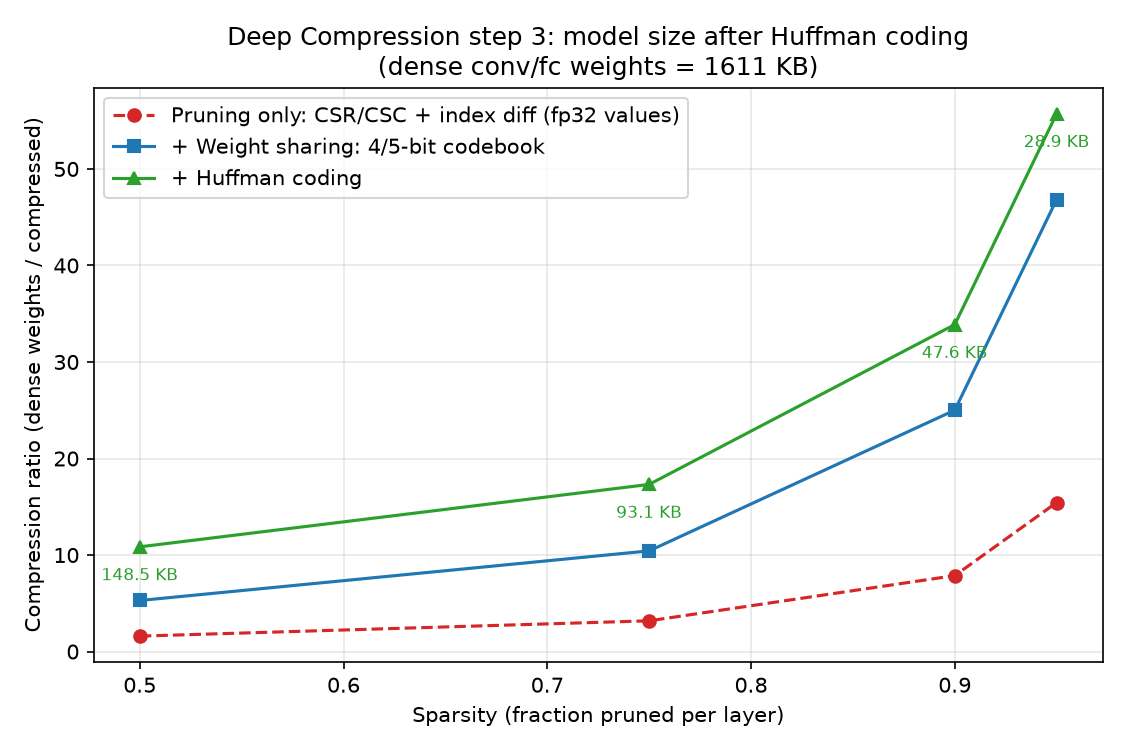
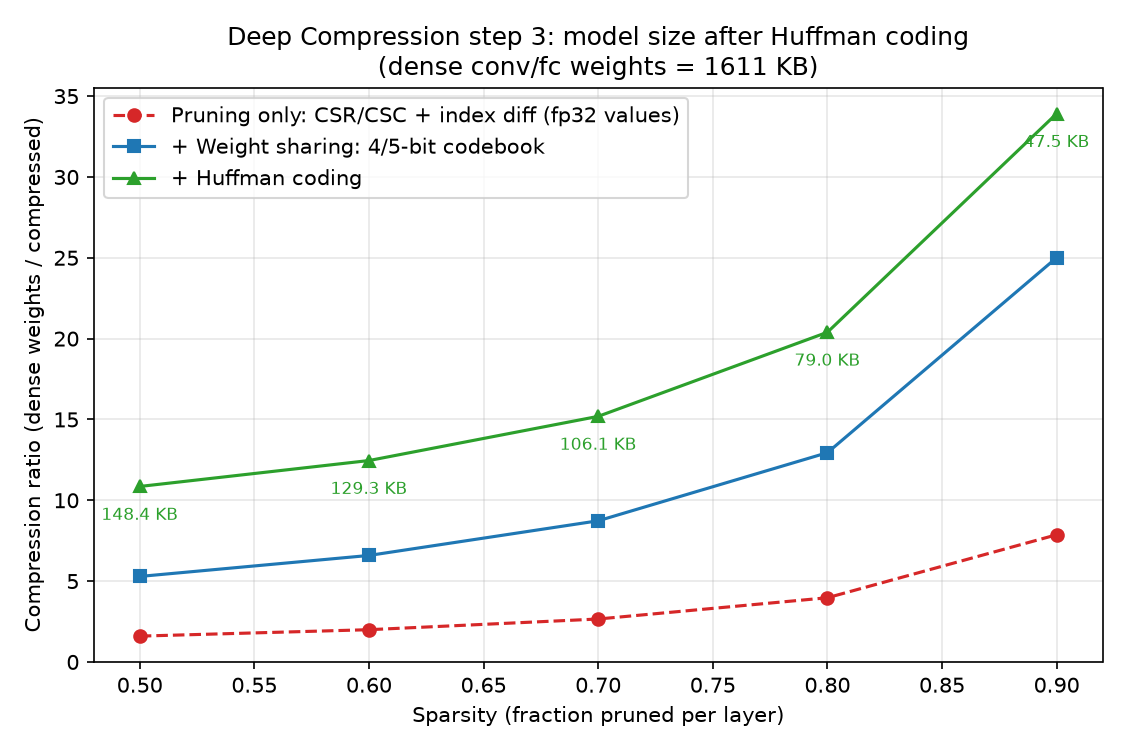
Re-run Deep Compression pipeline on sparsity 0.5-0.9
把扫描的稀疏度从 [0.5, 0.75, 0.9, 0.95] 换成 [0.5, 0.6, 0.7, 0.8, 0.9]，
pruning/quant 两处 SPARSITIES 同步修改，其余超参与存储格式不变。

新的实验结果（baseline acc 0.8958）：
- 剪枝+微调: acc 0.8925 / 0.8901 / 0.8834 / 0.8639 / 0.7807
- +CSR/index diff: 1.60x / 2.00x / 2.66x / 3.97x / 7.87x
- +权重共享: 5.29x / 6.59x / 8.73x / 12.94x / 25.01x
- +Huffman: 10.86x / 12.46x / 15.19x / 20.39x / 33.92x（无损，解码最大偏差 0）

同时更新 README 中三段结果的表格与注释，并补上剪枝那一步的数值表。

diff --git a/DeepCompression/compression.py b/DeepCompression/compression.py
@@ -64,7 +64,7 @@ from weight_sharing import (
 device = torch.device("cuda" if torch.cuda.is_available() else "cpu")
 
 # ---------------- 实验超参数 ----------------
-SPARSITIES = [0.5, 0.75, 0.9, 0.95]
+SPARSITIES = [0.5, 0.6, 0.7, 0.8, 0.9]
 PRUNED_PREFIX = "pruned_s"
 MASK_PREFIX = "mask_s"
 COMPRESSION_LOG_FILE = "log_compression.txt"

diff --git a/DeepCompression/pruning.py b/DeepCompression/pruning.py
@@ -23,7 +23,7 @@ device = torch.device("cuda" if torch.cuda.is_available() else "cpu")
 
 # ---------------- 实验超参数 ----------------
 # 需要扫描的稀疏度：0.5 表示每层剪掉 |w| 最小的 50%
-SPARSITIES = [0.5, 0.75, 0.9, 0.95]
+SPARSITIES = [0.5, 0.6, 0.7, 0.8, 0.9]
 # 微调
 FINETUNE_EPOCHS = 15
 FINETUNE_LR = 0.001
